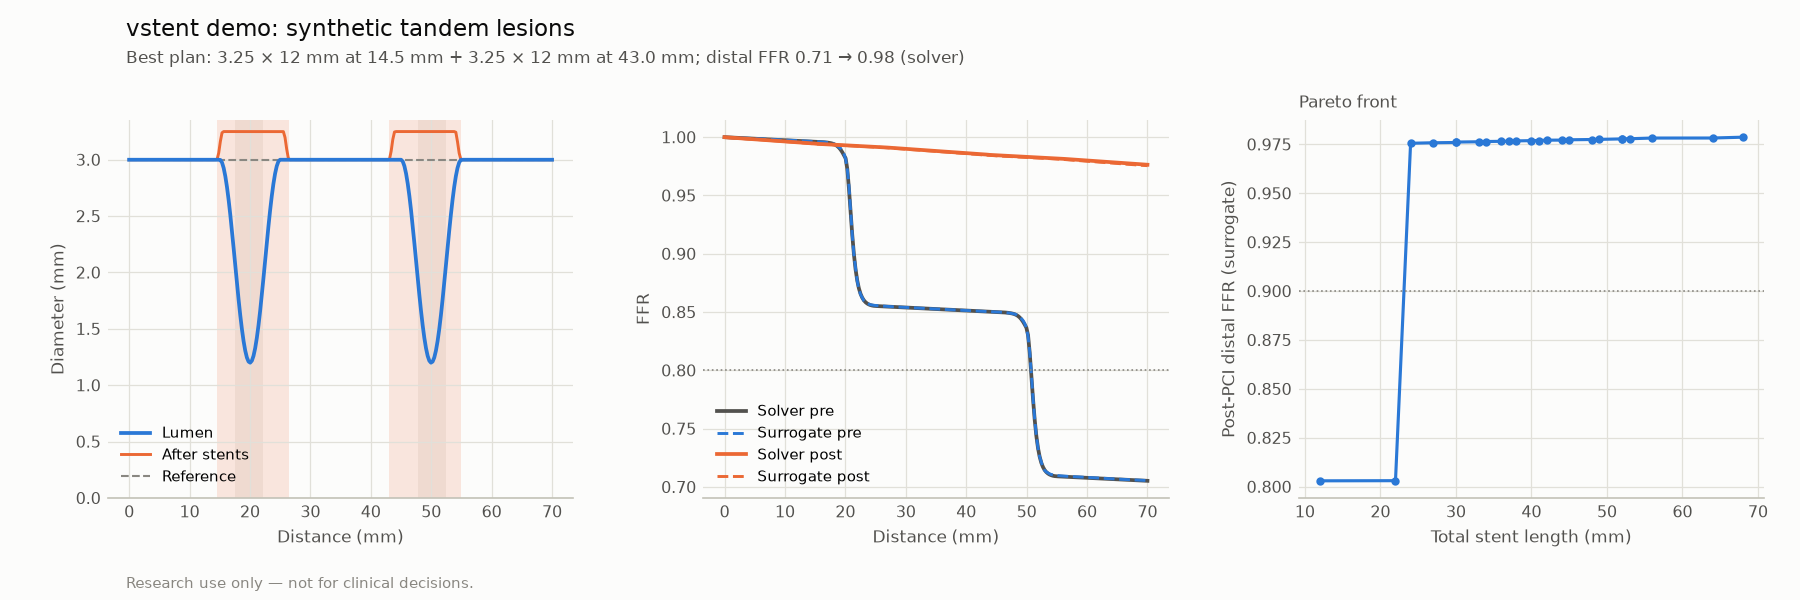
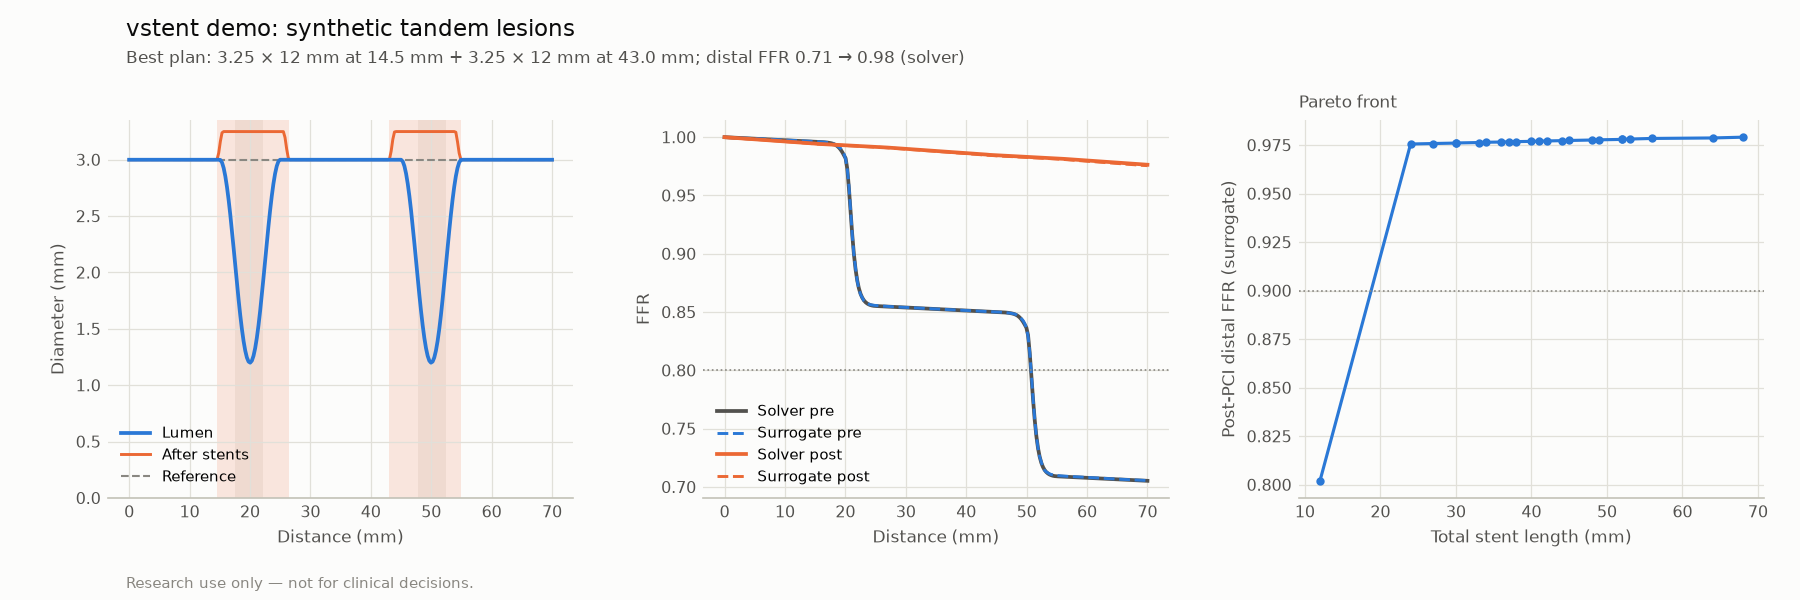
P1: demo after the review fixes (cal-split calibration)

diff --git a/reports/demo/demo.md b/reports/demo/demo.md
@@ -11,9 +11,9 @@ Generated by `vstent demo`. Do not edit by hand.
 | Step | Result | Time |
 |---|---|---|
 | Pre-PCI distal FFR (solver / surrogate) | 0.705 / 0.706 | 9 ms |
-| Stent plan search | 1720 feasible of 6280 single-stent candidates, 176 pairs; Shortest plan reaching FFR >= 0.90. | 433 ms |
+| Stent plan search | 1720 feasible of 6280 single-stent candidates, 176 pairs; Shortest plan reaching FFR >= 0.90. | 711 ms |
 | Best plan | 3.25 × 12 mm at 14.5 mm + 3.25 × 12 mm at 43.0 mm | |
-| Post-PCI distal FFR (solver / surrogate) | 0.976 / 0.976 | 8 ms |
+| Post-PCI distal FFR (solver / surrogate) | 0.976 / 0.976 | 9 ms |
 
 | Plan | Stents | Total length | Post FFR (planning backend) | Solver check |
 |---|---|---|---|---|
@@ -21,7 +21,7 @@ Generated by `vstent demo`. Do not edit by hand.
 | 2 | 3.25 × 12 mm at 13.5 mm + 3.25 × 12 mm at 43.0 mm | 24 mm | 0.976 | 0.976 |
 | 3 | 3.25 × 12 mm at 14.5 mm + 3.25 × 12 mm at 45.0 mm | 24 mm | 0.976 | 0.976 |
 
-**Uncertainty (90% intervals).** Inputs varied: hyperemic velocity, Pa / Pv (500 Monte Carlo draws through the solver; 11 ms).
+**Uncertainty (90% intervals).** Inputs varied: hyperemic velocity, Pa / Pv (500 Monte Carlo draws through the solver; 13 ms).
 
 | Distal FFR | Input interval (solver) | Model interval (surrogate) | Threshold | Grey zone |
 |---|---|---|---|---|
@@ -34,4 +34,4 @@ Model intervals cover only the surrogate's error against the reduced-order solve
 
 Post-PCI FFR keeps the pre-PCI microvascular resistance, Pa and Pv (only the lumen changes). Full case report with all assumptions: `demo.json`.
 
-Surrogate model: `models/surrogate/unet1d_ens5-20261030-113237`; commit `c9db628e0e0a6c1921f4eb7f00801496790b67ad` (dirty: False), vstent 0.1.0, 2026-10-30T14:17:01+00:00.
+Surrogate model: `models/surrogate/unet1d_ens5-20261030-113237`; commit `c7bbd4685d5a75d0bab7ffb003a97d68f1a47d8d` (dirty: False), vstent 0.1.0, 2026-10-30T15:23:55+00:00.
